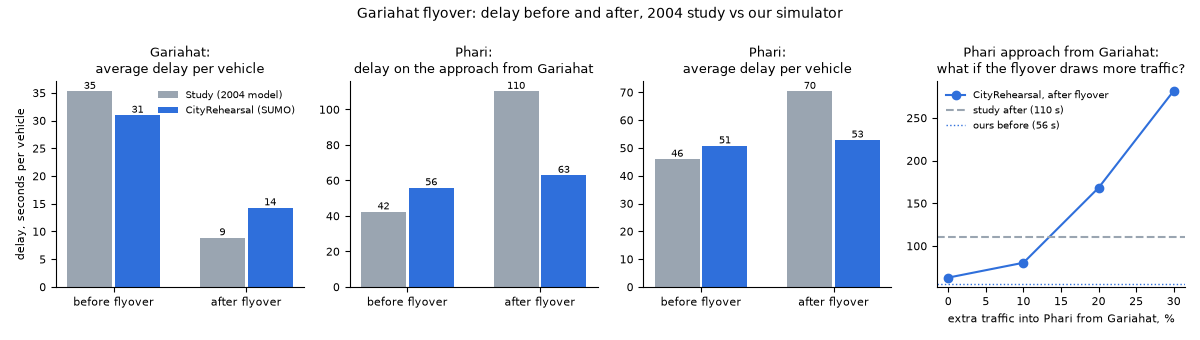
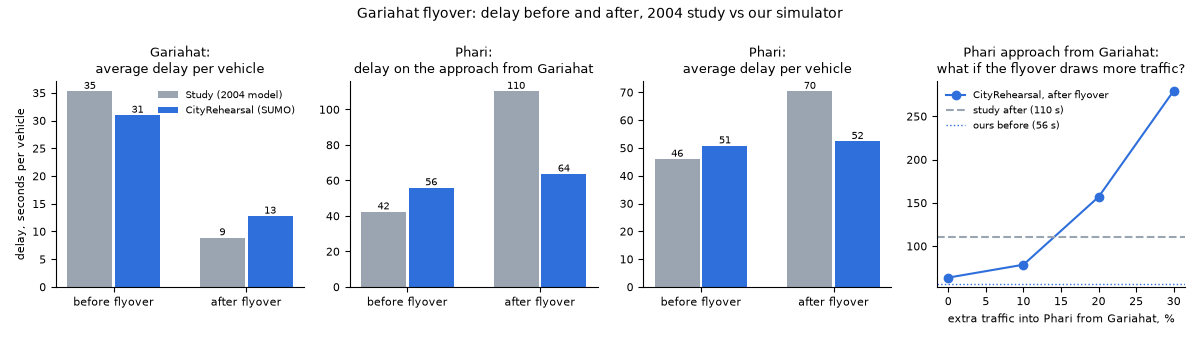
Gariahat backtest: fix after-flyover left-turn greens, add README and what-if
- After the flyover, the left-turners still at grade on Gariahat A and C count as one
  lane when greens are split (they had 19 s of green and waited ~100 s each).
- 3-seed result: Gariahat -59% (study -75%, match); Phari approach from Gariahat
  +14% (study +160%, direction only); both junctions -15% veh-h (study +26%).
- What-if: Phari approach C reaches the study's 110 s at about +14% more traffic
  arriving from Gariahat (+10%: 79 s, +20%: 157 s, +30%: 280 s).
- README: plain-language result, tables, labelled inputs, caveats, how to re-run
  and produce C1 frames for the 3D replay.

diff --git a/sim/gariahat/backtest.py b/sim/gariahat/backtest.py
@@ -441,7 +441,7 @@ def measure(rd: Path, after: bool) -> dict:
             fid = t.get("id")
             key = ("Gariahat_" if fid[0] == "G" else "Phari_" if fid[0] == "P" else "side_") + fid[1]
             backlog.setdefault(key, []).append(dd)
-            trips.append((fid, float(t.get("duration")) + dd, t.get("departLane"), t.get("arrivalLane")))
+            trips.append((fid, float(t.get("duration")) + dd))
     # queues: per step, from the stop line upstream while edges are (nearly) full
     q = {}
     for ts in ET.parse(rd / "queue.xml").getroot().iter("data"):
@@ -466,8 +466,8 @@ def measure(rd: Path, after: bool) -> dict:
     stats = ET.parse(rd / "stats.xml").getroot()
     tele = stats.find("teleports"); coll = stats.find("safety")
     # corridor: Gariahat Road end to end through both junctions (south of Gariahat <-> north of Phari)
-    nb = [d for f, d, *_ in trips if f.startswith("GC_GN_PN")]
-    sb = [d for f, d, *_ in trips if f.startswith("PE_PS_GS")]
+    nb = [d for f, d in trips if f.startswith("GC_GN_PN")]
+    sb = [d for f, d in trips if f.startswith("PE_PS_GS")]
     return {"approaches": approaches, "teleports": int(tele.get("total")) if tele is not None else 0,
             "collisions": int(coll.get("collisions")) if coll is not None else 0,
             "corridor_travel_time_s": {"northbound": round(st.mean(nb)) if nb else None, "southbound": round(st.mean(sb)) if sb else None}}

diff --git a/sim/gariahat/README.md b/sim/gariahat/README.md
@@ -1,0 +1,131 @@
+# Gariahat backtest: does CityRehearsal predict what a real flyover did?
+
+**What we tested.** In 2004, IIT Kharagpur (Maitra et al., `data/gariahat/`) modelled the Gariahat flyover in Kolkata
+before it opened. They found that it would cut delay at Gariahat crossing by three quarters, but would more than double
+the delay at Ballygunge Phari, the next junction north, because traffic would now pour off the flyover without stopping.
+Across both junctions, the flyover would make things worse. We gave our simulator the same two road layouts (with
+and without the flyover) and the same counted traffic, and checked whether it reaches the same conclusions.
+
+**Result in one sentence.** Our simulator reproduces the big win at Gariahat (delay down 59%, study 75%) and the
+direction of the knock-on at Phari (the road from Gariahat gets slower), but not its size: with the same counted
+traffic, Phari's approach from Gariahat gets 14% slower, not 160%. It matches the study's Phari figure only if the
+flyover also brings about 15% more traffic onto that road, which the study expects but does not put a number on.
+
+**Verdict: partial match.** The direction is right everywhere, and the Gariahat size is right. Phari's size, and so the
+"worse overall" conclusion, only follow if the flyover attracts extra traffic.
+
+![before and after, study vs simulator](chart.png)
+
+## The comparison (3 random seeds; seed-to-seed spread under ±3 s)
+
+| What the study reported | Study before → after | Change | Ours before → after | Change | Verdict |
+|---|---|---|---|---|---|
+| Gariahat: average delay per vehicle | 35.3 → 8.9 s | −75% | 31.0 → 12.8 s | −59% | match |
+| Phari: delay on the approach from Gariahat | 42.4 → 110.3 s | +160% | 56.0 → 63.7 s | +14% | partial (direction only) |
+| Phari: average delay per vehicle | 46.0 → 70.4 s | +53% | 50.8 → 52.4 s | +3% | partial (direction only) |
+| Gariahat: peak-hour delay | 38.1 → 9.7 veh-h | −75% | 33.5 → 13.8 veh-h | −59% | match |
+| Phari: peak-hour delay | 74.4 → 132.6 veh-h | +78% | 82.2 → 84.8 veh-h | +3% | partial |
+| Both junctions together | 112.5 → 142.3 veh-h | +26% | 115.7 → 98.6 veh-h | −15% | mismatch |
+
+"Match" means the same direction and a change between half and double the study's. Vehicle-hours are worked out the
+study's way: average delay × the counted peak-hour volume (3,886 vehicles at Gariahat, 5,824 at Phari).
+
+**Before the flyover, our starting point is close to the study's** (per approach, seconds of delay):
+
+| | Gariahat A | B | C | D | Phari A | B | C | D | E |
+|---|---|---|---|---|---|---|---|---|---|
+| Study (Tables 5, 6) | 37.1 | 35.7 | 41.2 | 23.8 | 37.1 | 52.1 | 42.4 | 77.8 | 29.3 |
+| Ours | 33.4 | 29.9 | 29.2 | 31.6 | 38.4 | 48.2 | 56.0 | 75.1 | 48.4 |
+
+After the flyover, at Gariahat: study (Table 8, traffic left at street level) A 11.2, B 23.1, C 13.7, D 17.6 s; ours A 9.1,
+B 18.8, C 8.1, D 19.6 s. Our A and C also include the flyover users, who lose almost nothing. End-to-end trips along
+Gariahat Road through both junctions get faster in our runs: 326 → 283 s on average.
+
+## Why Phari doesn't jump in our run, and what it would take
+
+The flyover does not add vehicles by itself. Before the flyover, Gariahat's signal was busy but not overloaded (queues
+under 100 m), so it was not holding traffic back: the same ~1,530 vehicles an hour reached Phari before and after.
+They now arrive in a steadier stream rather than in bunches, which costs Phari's approach a few seconds, not a minute.
+The study's large jump rests on its statement that the flyover "will increase substantially" the inflow to Phari. So we
+added that as a what-if, with more traffic arriving at Phari from Gariahat after the flyover:
+
+| Extra traffic into Phari from Gariahat | 0% | +10% | +20% | +30% |
+|---|---|---|---|---|
+| Delay on Phari's approach from Gariahat | 64 s | 79 s | 157 s | 280 s |
+| Phari average delay | 52 s | 57 s | 81 s | 120 s |
+| Longest queue on that approach | 143 m | 190 m | 359 m | 533 m |
+
+The study's 110 s falls at about **+14%**. Past +20%, Phari's approach tips over its capacity and the queue heads back
+towards Gariahat (930 m away). Flyovers commonly pull traffic off parallel roads, so +10–20% is plausible. That is the
+honest pitch line: *"Our simulator agrees the flyover fixes Gariahat. It also shows Phari is the next bottleneck: if
+the flyover draws even 15% more traffic onto Gariahat Road, Phari's approach delay doubles, as the 2004 study warned."*
+
+## What went in (labels as in CLAUDE.md)
+
+| Input | Value | Label |
+|---|---|---|
+| Vehicles per approach and class, peak hour | Study Table 3 (car, two-wheeler, bus, minibus, auto) | counted |
+| Left / straight / right shares | Study Table 4 | counted |
+| Same traffic before and after | The study re-routes the same counts; straight traffic on A and C uses the flyover (Table 7: 2,031 veh/h) | counted |
+| Approach widths | Study Table 3; lanes = width / 3 m, rounded down (min 2), using the full width | counted / assumed |
+| Which study letter is which road | Gariahat A = from Phari (north), B = west, C = south, D = east. Phari A = Hazra Rd, B = Ballygunge Circular Rd, C = from Gariahat, D = Broad St, E = Gariahat Rd north. Chosen so the junctions' flows balance (within 30–100 veh/h) and widths fit road sizes | estimated |
+| Side street between the junctions | Tops up Phari's approach from Gariahat to its count (+98 veh/h) and Gariahat's approach from Phari (+27 veh/h) | estimated |
+| Phase groups | Gariahat: 2 phases, Gariahat Rd / Rash Behari Ave (paper). Phari: 3 phases (paper): Gariahat Rd (C+E), Hazra Rd + Ballygunge Circular Rd (A+B), Broad St (D). The grouping is ours: it fits the paper's before delays (Table 6) | estimated |
+| Signal timing | 150 s cycle everywhere (the paper's only reported cycle); greens split by the busiest approach in each phase, in passenger-car units per lane; Phari unchanged by the flyover, as in the paper | assumed |
+| Driver behaviour | Close following and two-wheelers filtering between cars (SUMO sublane model), the YMCA settings | assumed |
+| Turning inside the junction box | Vehicles obey the lights but don't give way to each other once green, like the study's model, which simulated each approach on its own | assumed |
+| Flyover | 2 lanes each way, 50 km/h, landings where OpenStreetMap has them (~300 m south, ~360 m north of the crossing) | counted (OSM) / assumed |
+| Arrivals | Random (Poisson) over a 10-minute warm-up plus the peak hour; queued vehicles are followed until they clear | assumed |
+
+## Caveats
+
+- **The study's "after" numbers are a model too.** The flyover was under construction when they counted, and their
+  model was checked against field delays at nearby Deshpriya Park (within ~10%). This backtest compares two simulators
+  on the same inputs. It is not a check against post-flyover field data. Say "reproduces the study's finding".
+- **Signals and approach letters are our reconstruction.** The paper doesn't give its green times or a map of
+  letters to roads. Different splits move individual approaches by 10–20 s. The Gariahat result held in every
+  version we tried. The Phari result depends on Phari sitting just under capacity, which our before run reproduces
+  (Phari 50.8 s vs 46.0 s).
+- **Two approaches start off.** Phari C begins at 56 s against the study's 42 s, and Phari E at 48 s against 29 s. We
+  start somewhat more congested on the very approach the claim is about.
+- **Turning conflicts are simplified.** With SUMO's strict give-way rules, right-turners waiting for gaps in a saturated
+  oncoming stream blocked whole lanes, and Phari locked up even before the flyover (run with `CR_JTYPE=traffic_light`
+  to see it). We let green movements weave through, as the study did. SUMO logs ~250 "touches" per run where two
+  green streams merge into one exit lane. Vehicles carry on; this is a bookkeeping artefact, not a crash model.
+- **Schematic roads.** We use a purpose-built network (13 nodes: the two junctions, the roads the study counted
+  out to 300–600 m, one side street), not `sim/networks/gariahat_*.net.xml`. Those OSM conversions have no traffic
+  lights at all after conversion (0 signals) and ~2,000 side-street edges. Buses don't stop, there are no
+  pedestrians, and parking and the market at Gariahat are not modelled.
+- **Peak hour only.** Effects across a whole day, and traffic switching routes, are outside this test. The +10–30%
+  what-if stands in for the second.
+
+## How to re-run
+
+```bash
+CR_SIM_OUT=/tmp/cr python sim/gariahat/backtest.py            # 3 seeds + what-if runs (15 SUMO runs, ~5 min on 8 cores)
+CR_SIM_OUT=/tmp/cr python sim/gariahat/backtest.py --frames   # also writes 3D replay frames (below)
+python sim/gariahat/backtest.py --seeds 1 --no-sensitivity --no-write   # quick check, ~1 min, prints only
+```
+Each SUMO run takes ~90 s: 1 h 10 min of traffic plus clearing, 0.5 s step, sublane model on (lateral resolution
+0.8 m). The script rebuilds `net/gariahat_{before,after}.net.xml` (plain XML → netconvert, with our signal plans in
+`net/*.tll.xml`), writes `results.json` and `chart.png`, and deletes the bulky SUMO outputs.
+
+**3D replay (C1 frames).** `--frames` writes `$CR_SIM_OUT/gariahat/frames_before.jsonl` and `frames_after.jsonl`
+(not committed; ~12–13 MB each). Each has 4 minutes at one frame per second (t = 1200–1439 s, seed 1) in the C1 format
+of `contracts/vehicle_frame.schema.json`. Vehicles on the flyover get `z` up to 6 m, ramping over 80 m at each end;
+minibuses are typed `bus`. The coordinates are Kolkata (Gariahat ≈ 88.3653 E, 22.5197 N), so the 3D view needs its
+camera moved there.
+
+## Files
+
+| File | What |
+|---|---|
+| `backtest.py` | Builds both networks, the traffic and the detectors, runs SUMO, measures, compares, charts |
+| `results.json` | `comparison` (the table above), `before` / `after` (C2-style run results with per-approach detail and the study's numbers alongside), `sensitivity_after_flyover` |
+| `chart.png` | The three delay comparisons plus the what-if curve |
+| `net/` | The before and after networks and their signal plans (small, regenerated on every run) |
+
+Measurement: one entry-to-exit detector per study approach, from the start of the approach road (or Phari's approach
+from Gariahat, the whole 930 m link) to just past the stop line. Delay = SUMO time loss, plus any wait to enter the
+model if a queue reaches its edge. Flyover users count at Gariahat from the start of their approach to the start of the
+flyover, so they count with near-zero delay, as in the study.
